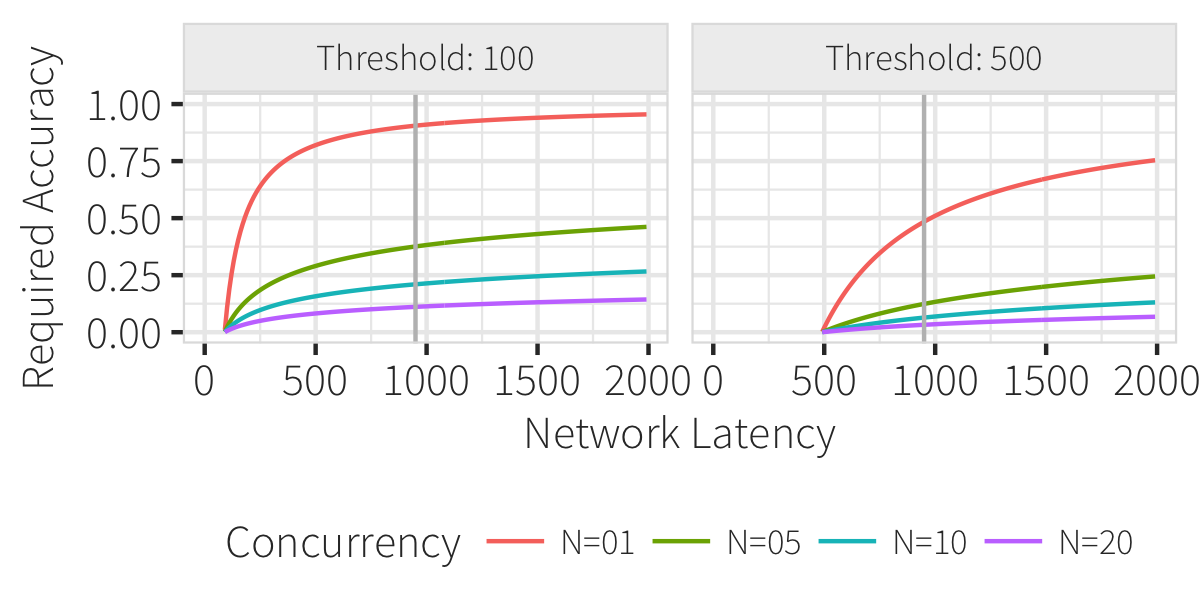
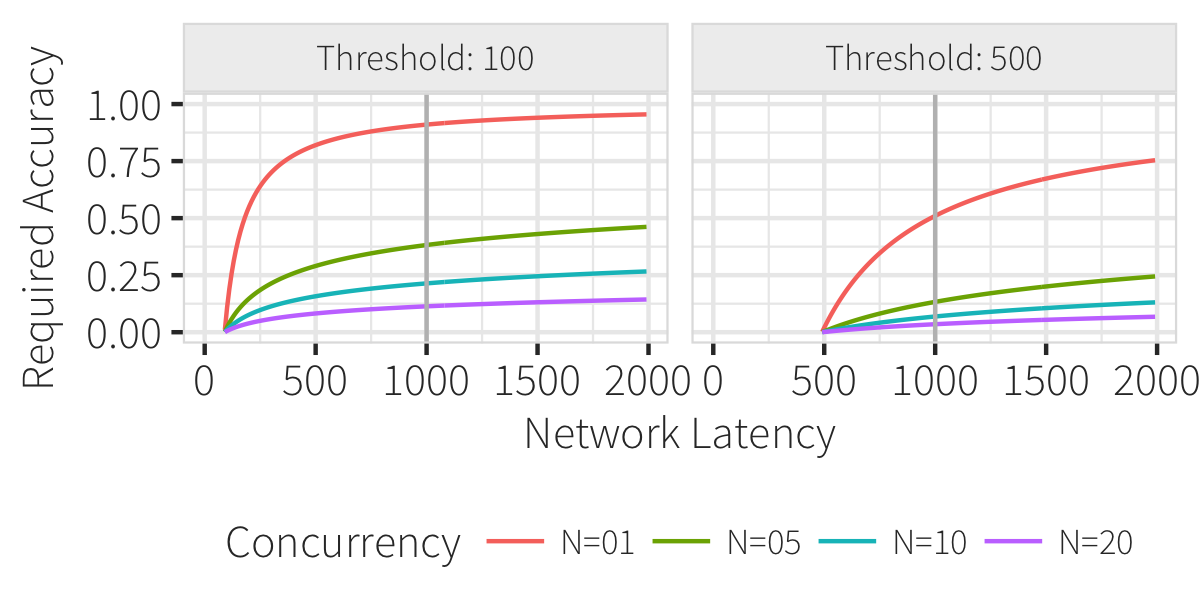
pass on model

Changed region(s): [[0.7708, 0.15, 0.8017, 0.57], [0.3392, 0.15, 0.37, 0.57]]

diff --git a/docs/vldb17/content/model.tex b/docs/vldb17/content/model.tex
@@ -19,9 +19,14 @@ Rearranging the terms, we can derive the minimum prediction accuracy in order to
 %$$\alpha = \frac{l_{net} - l_{user}}{l_{net} - l_{cache}}$$
 $$\alpha = \frac{l_{user} - l_{net}}{l_{cache} + max(0, l_{net}-t) - l_{net}}$$
 
-\ewu{Describe common constants} 
-Figure~\ref{fig:model_base} plots the model accuracy for two commonly cited $l_{user}$ thresholds (100 and 500ms).  The x-axis varies $l_{net}$ and each line represents the percentage of the prefetching costs that the user will experience.  For instance, when $\frac{t}{l_{net}}=1$, the user initiates the request at $T=t=l_{net}$ and does not experience any of the prefetching costs, whereas when $\frac{t}{l_{net}}=0.5$, the prefetching request is only half complete by the time the user initiates her request at $T=0.5\times l_{net}$.
-\ewu{Describe the figure}
+Prior perception and interactive visualization literature have used both $100$ and $500$ millisecond response times as thresholds for what is considered interactive~\cite{liu2014effects}.   Similarly, we assume request latencies can vary from $0$ to $2$ seconds~\cite{}, which embodies latencies that stem from query processing, serialization, network latencies and client overheads.  Finally, it is typically challenging to make accurate predictions more than several hundred milliseconds into the future~\cite{pasqual2014mouse}; we vary the ratio $\frac{t}{l_{net}}$ between $0.5$ and $1$.   We use the above constants in our analysis below.
+
+Figure~\ref{fig:model_base} plots the model accuracy for two commonly cited $l_{user}$ thresholds (100 and 500ms).  The x-axis varies $l_{net}$ and each line represents the percentage of the prefetching costs that the user will experience.  For instance, when $\frac{t}{l_{net}}=1$, the user initiates the request at $T=t=l_{net}$ and does not experience any of the prefetching costs, whereas when $\frac{t}{l_{net}}=0.5$, the prefetching request is only half complete by the time the user initiates her request at $T=0.5\times l_{net}$.  We use a vertical line to mark the network latency at $1$ second.  
+
+The first observation is that when $l_{net}$ is smaller than the threshold, the user perceived accuracy is independent of the model accuracy.  When the threshold is $100$, the minimum model accuracy quickly exceeds $80\%$ by even a request latency of $500$ms; although the minimum accuracy is lower under the $500$ms threshold, the accuracy converges to $70\%$.
+It is challenging to guarantee such high user prediction accuracy for a single request---the accuracy in existing literature is slightly above $50\%$ for a constrained user interface with 9 interaction options~\cite{battle2016dynamic}.
+
+\ewu{Argue that assuming $t < l_{net}$ is a reasonable assumption.}
 
 \begin{figure}[ht]
 	\centering
@@ -33,9 +38,8 @@ Figure~\ref{fig:model_base} plots the model accuracy for two commonly cited $l_{
 
 
 \stitle{Vary Prefetch Concurrency}
-Most modern data processing systems are able to execute multiple concurrent requests~\cite{ebenstein2016fluxquery,giannikis2012shareddb}.  
-We now vary the number of concurrent prefetch requests $N$;
-the $(1-\alpha)^N$ term is the probability that none of the prefetch requests match the user's actual request at $T=t$:
+Most modern data processing systems are able to execute multiple concurrent requests~\cite{ebenstein2016fluxquery,giannikis2012shareddb}, thus we now modify the model to vary the number of concurrent prefetch requests $N$.
+The $(1-\alpha)^N$ term is the probability that none of the prefetch requests match the user's actual request at $T=t$:
 %
 $$l_{user} = (l_{cache} + max(0, l_{net} - t)\times (1-(1-\alpha)^N) + l_{net}\times(1-\alpha)^N $$
 %
@@ -51,11 +55,11 @@ $$\alpha = 1 - \left(\frac{l_{cache}+max(0,l_{net}-t)-l_{user}}{max(0,l_{net}-t)
 \end{figure}
 
 
-Figure~\ref{fig:model_concurrency} shows that increasing the number of concurrent requests has an immediate effect on $\alpha$ ($t=l_{net}$ in these plots).    With $N=20$, a prediction model need only be $12\%$ accurate to ensure an interactive latency of $l_{user}=100$, while ensuring  $l_{user}=500$ only requires an accuracy of $3.5\%$. \ewu{Describe implications}
+Figure~\ref{fig:model_concurrency} shows that increasing the number of concurrent requests has an immediate effect on $\alpha$ ($t=l_{net}$ in these plots).    With $N=20$, a prediction model need only be $12\%$ accurate to ensure an interactive latency of $l_{user}=100$, while ensuring  $l_{user}=500$ only requires an accuracy of $3.5\%$.  At the limit, sending concurrent requests for all possible queries (assuming the cost is $l_{net}$) means the user latency is independent of prediction accuracy.  These results suggest that increasing the concurrency is an effective counter balance to model accuracy.
 
 
 \stitle{Network Latency Variance}
-Figure~\ref{fig:model_std} simulates $l_{net}$ drawn from a gaussian distribution with standard deviation of $0, 100, 500$ milliseconds.  We set $N=20$, $t=l_{net}$.  We find that although the request variance affects the required model accuracy when $l_{net}$ is low, the curves converge to similar points as $l_{net}$ increases, irrespective of the variance.
+Figure~\ref{fig:model_std} simulates $l_{net}$ drawn from a gaussian distribution with standard deviation of $std \in \{0, 100, 500\}$ milliseconds.  We set $N=20$, $t=l_{net}$, and the y-axis is from 0 to $0.4$.  Although the request variance affects the required model accuracy when $l_{net}$ is low, the curves for each threshold converge to the same levels independent of $std$; this is simply because $l_{net}$, rather than $std$, is the dominant factor as it increases.
 
 \begin{figure}[h]
 	\centering
@@ -72,9 +76,9 @@ Figure~\ref{fig:model_std} simulates $l_{net}$ drawn from a gaussian distributio
 \end{figure}
 
 
-\stitle{Progressive Loading}
-\ewu{Lots of work on approximation and perceptual inaccuracy.}  In our final analysis, we simulate the effects of partial results by simply reducing the time it takes to respond to a request.
-A powerful result is that combining concurrency and partial results can reduce the required accuracy of the prediction model to nearly $0$ and still support interactivity of $l_{user}=500ms$ when $l_{net}\le 2000$.
+\stitle{Progressive Results}
+The visualization and database communities have argued for approximate visualizations that are slightly inaccurate but potentially much faster to compute.  Techniques such as Online Aggergation~\cite{control,wanderjoin} or streaming wavelet compression~\cite{} are considered {\it progressive} because they are able to immediately return (and render) approximate results that improve over time; thus providing a natural trade-off between latency and result quality.  Our final analysis studies progressive results that require a fraction of the full request latency to be ``sufficiently good''.
+\ewu{Use sampling and immens arguments as basis for 25\% partial results.} We find that $5\%$ accuracy is enough to maintain user perceived latency of $100$ when $25\%$ of the results is sufficient; at threshold of $500$, the perceived latency is independent of the model accuracy when $l_{net}\le 2000$.
 
 
 
@@ -82,16 +86,6 @@ A powerful result is that combining concurrency and partial results can reduce t
 
 
 \subsection{Discussion}
-
-\ewu{Argue that it is clear that progressive encoding and apprximate results will be the future.  Thus the combination of partial results and concurrency go hand in hand.  We also see that the prediction model simply needs to be ``good enough'' with an accuracy around $10\%$.  When the number of possible interactions are limited, then a random model is sufficient.  However when it is unlimited, then the accuracy can easiry be very low~\cite{}.  }
-
-
-
-Assuming a tile is XXX kilobytes, and a throughput of $T mb/s$, then can sustain a concurrency level of XXX.  
-When combined with progressive loading of $20\%$ (base this number off sampling and immens arguments), increases the concurrency level to XXX, 
-and the model accuracy to YYY.  In many existing settings, where the number of interaction options is limited, this effectively means the prediction model
-can draw randomly and be effective.  
-
-
-However, in interfaces such as XXX, the number of possible interactions are roughly YYY, for which existing techniques would fail.  Under our analysis, the model simply needs to be.
+We find that a careful combination of existing techniques (concurrency and progressive results) can dramatically reduce the required model accuracy to enable low user perceived latency---in some extreme cases when the threshold is $500$, the model accuracy can even be $0\%$.  
+\ewu{Argue that given  fixed network throughput between client and server, increasing concurrency beyond a certain point naturally requires partial results.  Thus the two go hand in hand.   We also see that the prediction model simply needs to be ``good enough'' with an accuracy of $5-10\%$.  When the number of possible interactions are limited to $10-20$ possible interactions, then even a random model is sufficient.  However in rich interfaces with potentially dozens or a hundred possible interactions, there may simply be too many choices to learn a good model.}
 

diff --git a/docs/vldb17/scripts/model.py b/docs/vldb17/scripts/model.py
@@ -11,7 +11,7 @@ xs = np.arange(1, 2000, 10)
 def make_func(tratio=1, lperc=100, concurrency=1, partial=1, std=0):
   f = lambda x: (float(lperc) - x) / (10.0 - (tratio * x))
   f = lambda x: 1.0 - ((lperc - 10.0 - max(0, x - tratio * x)) / (x - 10.0 - max(0.0, x - tratio * x)))**(1.0/concurrency)
-  f = lambda x: 1.0 - ((10.0 + max(0, x-tratio*x)-lperc)/(max(0, x-tratio*x)-x))**(1.0 / concurrency)
+  f = lambda x: 1.0 - max(0, ((10.0 + max(0, x-tratio*x)-lperc)/(max(0, x-tratio*x)-x)))**(1.0 / concurrency)
   h = lambda x: f(x * partial)
   h.std = std
   h.partial = partial
@@ -43,7 +43,7 @@ def plotit(data):
   p = ggplot(data, aes(x="x", y="y", color="label", group="label"))
   p += geom_line()
   p += axis_labels("Network Latency", "Required Accuracy", ykwargs=dict(lim=[0,1]))
-  p += geom_vline(xintercept=950, color=esc("grey"))
+  p += geom_vline(xintercept=1000, color=esc("grey"))
   p += legend_bottom
   p += guides(col = guide_legend(nrow=1))
   p += theme(**{
@@ -69,7 +69,7 @@ print max(filter(lambda d: d['std'] == 500, data), key=lambda d: d['x'])
 p = ggplot(data, aes(x="x", y="y", color="label", group="label"))
 p += geom_point(size=0.05, alpha=0.2)
 p += axis_labels("Network Latency", "Required Accuracy", xkwargs=dict(breaks=[500, 1000, 1500, 2000], labels=map(esc, ["500", "1k", "1.5k", "2k"])), ykwargs=dict(lim=[0,.4]))
-p += geom_vline(xintercept=950, color=esc("grey"))
+p += geom_vline(xintercept=1000, color=esc("grey"))
 p += legend_bottom
 p += guides(col = guide_legend(nrow=1))
 p += theme(**{
@@ -93,7 +93,7 @@ ggsave("model_base.png", p, libs=["grid"], width=4, height=2)
 
 
 # concurrency
-funcs = [dict(label="N=%02d" % (t), t=t, p="Threshold: %s" % p, f=make_func(concurrency=t, lperc=p)) for t in [1, 5, 10, 20] for p in [100, 500]]
+funcs = [dict(label="N=%02d" % (t), t=t, p="Threshold: %s" % p, f=make_func(concurrency=t, tratio=.9, lperc=p)) for t in [1, 5, 10, 20, 500] for p in [100, 500]]
 print make_func(concurrency=5, lperc=500)(1000)
 #exit()
 p = toplot(funcs)

diff --git a/docs/vldb17/content/intro.tex b/docs/vldb17/content/intro.tex
@@ -27,11 +27,12 @@ To answer this question, we used a simple model-based analysis of end-to-end lat
 
 Based on these observations, we have designed \sys, a streaming-based architecture that generalizes the request-response model to support rich interactive visual exploration interfaces.  The primary idea is to model user interactions as a series of probability distributions over possible visualization requests at a future time steps.  Under this model, a given request is simply an impulse distribution centered around the user's interaction, however by sending a distribution.  This is similar to the notion of a QueryIntent~\cite{ebenstein2016fluxquery} however used in this context not to predict what the user will do but for prefetching.
 
-However, simply having query distributions is not sufficient because XXX.  Thus \sys combines two additional ideas: progressive visualization results and streaming push-based results. \ewu{describe more}
+However, simply having query distributions is not sufficient because \ewu{waiting until the query distribution to be sent to the server is still not good enough and arguably exacerbates the problem due to the size to encode the distribution}.  Thus \sys combines two additional ideas: progressive visualization results and streaming push-based results. \ewu{describe more}
 
 All three are {\it necessary}.  Each in isolation is not enough.   This architecture supports interactive visualizations where requests can be modeled as SQL queries, including DVMS, Vega, Forecache, Tableau, and common data viz systems.
 
 
+We show that a simple analysis, and a judicious implementation using common components outperforms existing request-response-based approaches.
 Our current system assume precomputed data structures, future work includes online query processing costs.
 
 

diff --git a/docs/vldb17/content/arch.tex b/docs/vldb17/content/arch.tex
@@ -8,6 +8,12 @@
   \label{fig:arch}
 \end{figure}
 
+
+Challenges:   How to represent and generate distributions?
+What to return?  Scheduling problem -- adopt existing scheduling work.
+Progressive encoding -- try obvious options.  see if they work.
+
+
 \ewu{copied from assignment readme}
 Figure~\ref{fig:arch} represents the overall architecture of the system and will be used to introduce the major files.
 From left to write, the developer creates visualization charts as wrappers around query templates. When the viz are instantiated, the query templates are registered with the server, so the server can instantiate the appropriate precomputed data structures. The query templates basically parameterize SQL queries.
